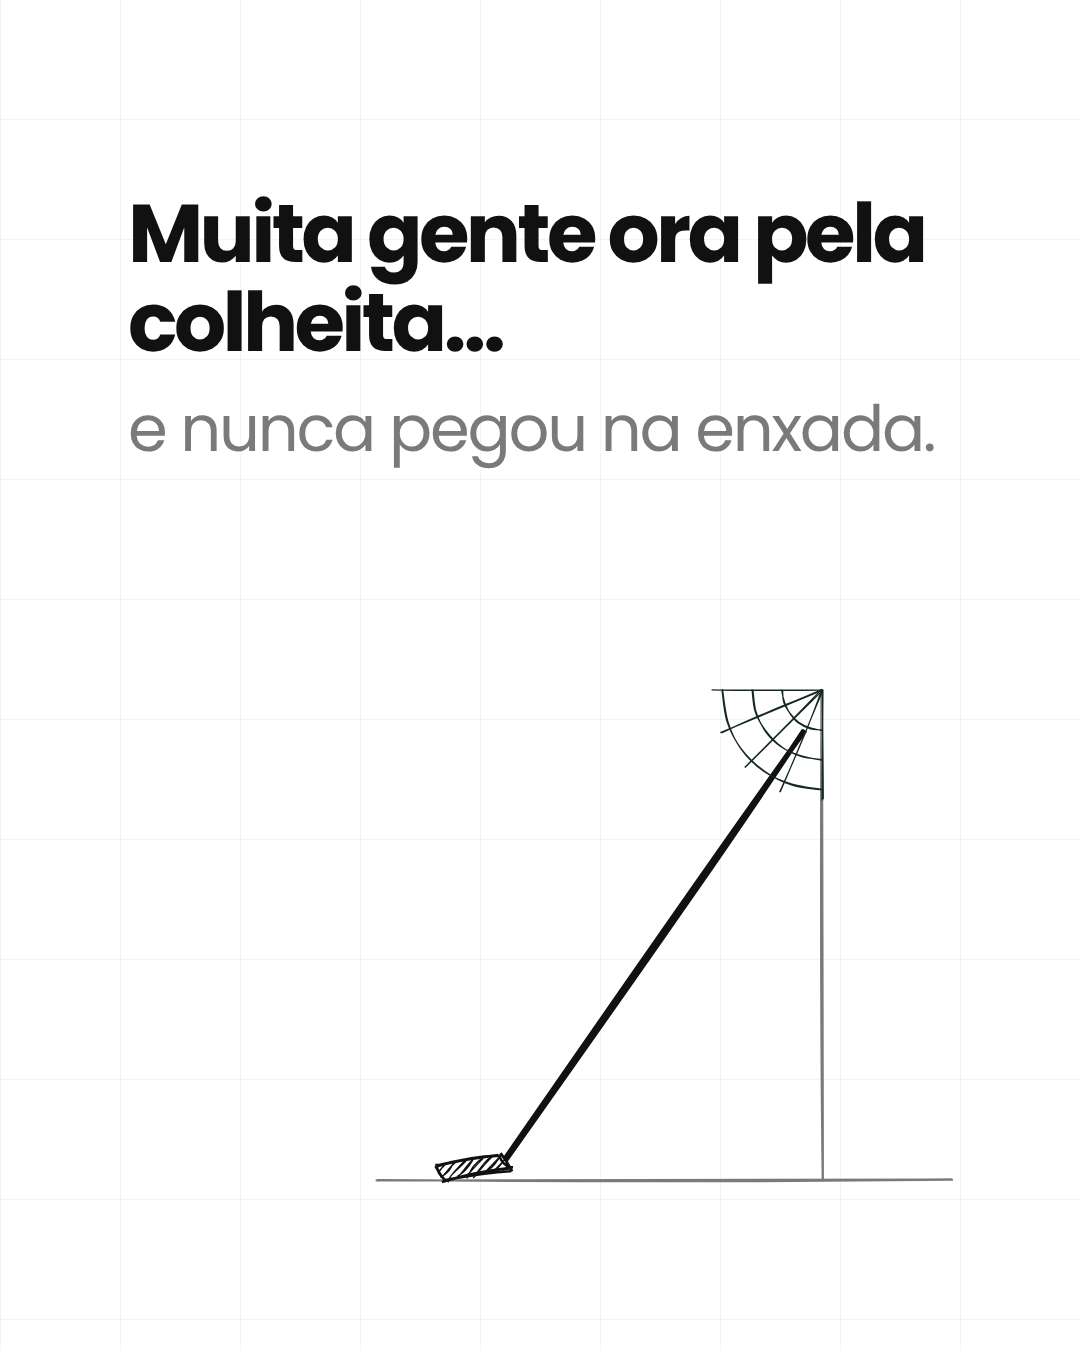
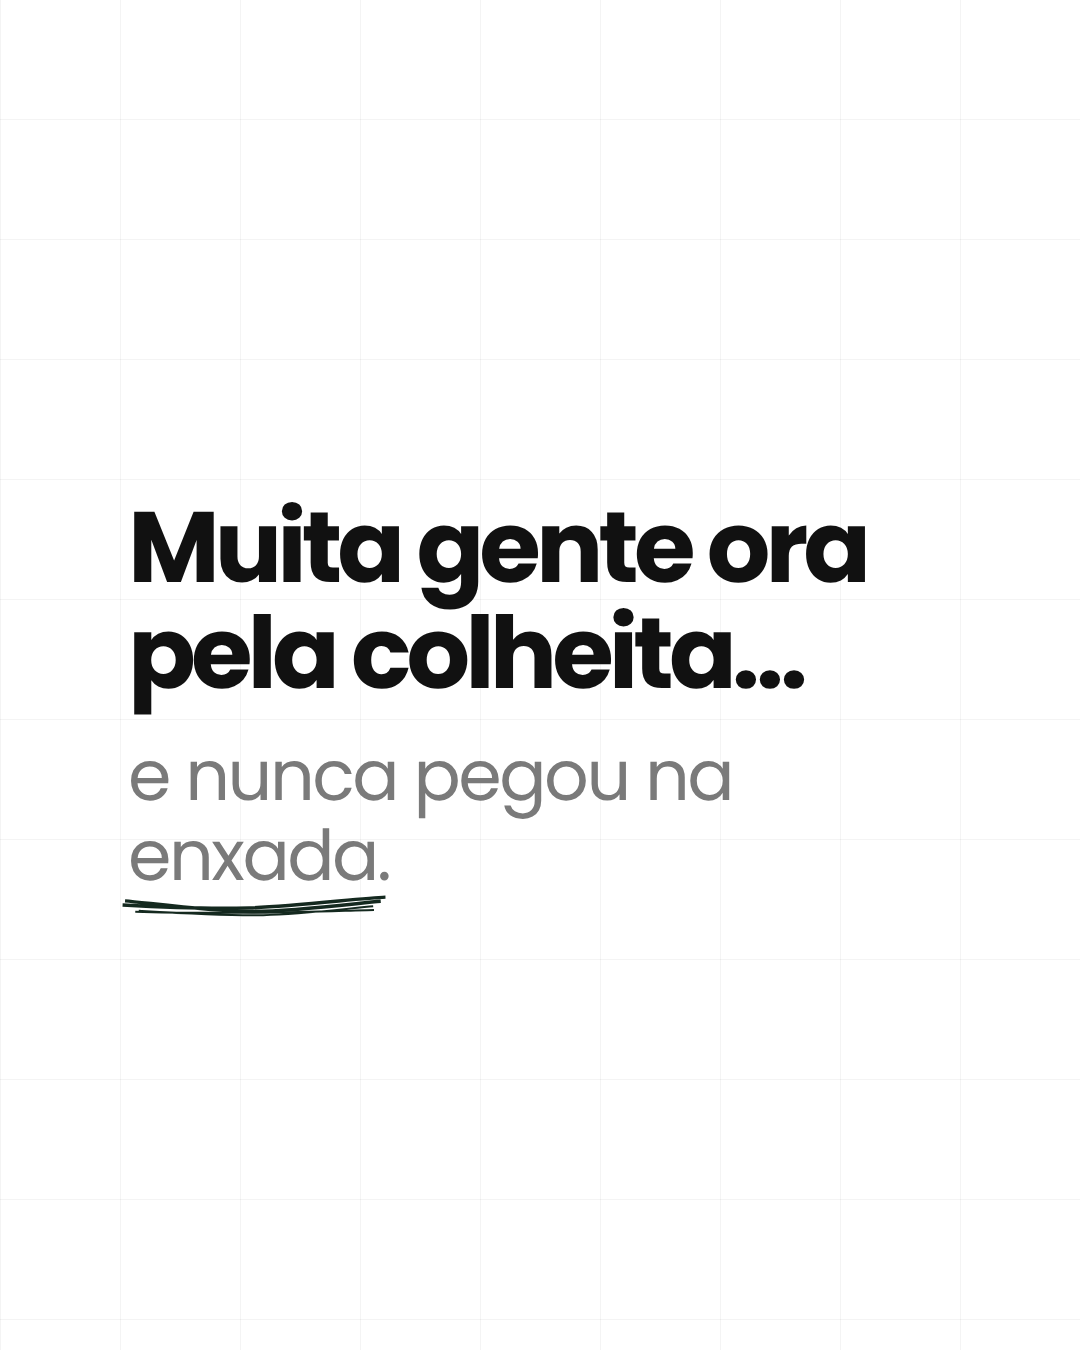
Carrossel 05: manifesto só tipográfico (sem desenhos), frases maiores e palavra-chave sublinhada
Claude-Session: https://claude.ai/code/session_01CR2zLXebwu2nvAjBiSDjK9

diff --git a/carrossel/index.html b/carrossel/index.html
@@ -111,8 +111,8 @@ body.render .frame .num{display:none}
 .flow .txt{font-size:31px;margin-top:38px}
 .draw{position:relative;width:100%;flex:1 1 auto;min-height:220px;max-height:430px;margin:auto 0}
 .spacer{flex:1 1 auto}
-.man .m1{font:700 82px/1.08 Poppins,sans-serif;letter-spacing:-.045em;color:var(--ink);margin-top:40px}
-.man .m2{font:400 64px/1.14 Poppins,sans-serif;letter-spacing:-.035em;color:var(--muted);margin-top:26px}
+.man .m1{font:700 100px/1.06 Poppins,sans-serif;letter-spacing:-.05em;color:var(--ink);margin-top:40px}
+.man .m2{font:400 70px/1.14 Poppins,sans-serif;letter-spacing:-.035em;color:var(--muted);margin-top:30px}
 .man .m2 b,.man .m1 b{color:var(--ink)}
 .man .m3{font:600 30px Poppins,sans-serif;color:var(--ac);margin-top:40px}
 .man.cit .m1{font:500 66px/1.22 Poppins,sans-serif;letter-spacing:-.03em}

diff --git a/.claude/skills/carrossel/SKILL.md b/.claude/skills/carrossel/SKILL.md
@@ -48,7 +48,7 @@ Objetivo: máxima qualidade com o mínimo de tokens. **Não leia** `index.html`,
 | `cartoes` | título A \| texto A (✗) \| título B \| texto B (✓) |
 | `troca` | você dá \| valor \| você recebe \| valor |
 
-**Manifesto (trilha viral):** `{"tipo":"manifesto","linha1":"frase forte","linha2":"contraponto (mais leve)","linha3":"opcional pequeno","desenho":"…","citacao":true,"cta":true}` — sem desenho, a frase fica centralizada. Desenhos de manifesto: `sementes`, `enxada`, `nuvem`, `despertador`, `broto` (05 já usou todos).
+**Manifesto (trilha viral):** `{"tipo":"manifesto","linha1":"frase forte","linha2":"contraponto (mais leve)","linha3":"opcional pequeno","desenho":"…","citacao":true,"cta":true}` — **manifesto é só tipografia** (o usuário achou os desenhos abstratos/ruins): frase grande centralizada + `{{palavra-chave}}` sublinhada à mão. Não usar desenho no manifesto.
 
 **Nunca repetir a ilustração de um carrossel anterior** (regra do usuário). Se nenhum desenho existente servir sem repetir, crie um novo tipo em `index.html` (função `drawAll`) e registre aqui.
 Já usados: 02 → alvo, funil, bolhas, grafico, pipeline · 03 → grafico, bolhas, linha, alvo, pipeline · 04 → baloes, escada, balanca, cartoes, troca.
